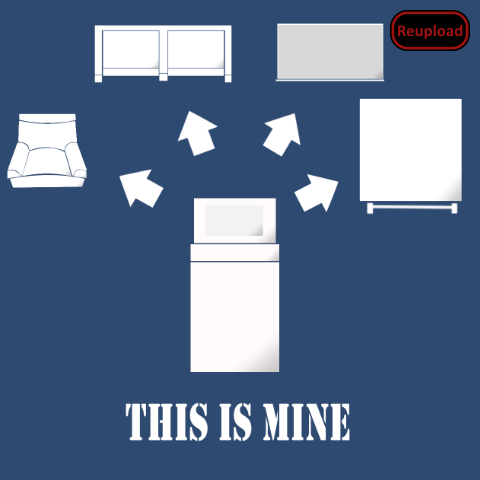
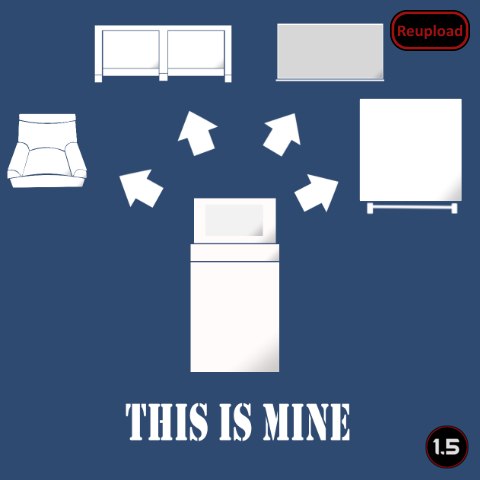
Mod updated for 1.5 and passed autotests

Changed region(s): [[0.875, 0.875, 1.0, 1.0]]

diff --git a/Source/ThisIsMine/HarmonyInit.cs b/Source/ThisIsMine/HarmonyInit.cs
@@ -1,5 +1,4 @@
-using System.Collections.Generic;
-using System.Linq;
+using System.Linq;
 using HarmonyLib;
 using RimWorld;
 using Verse;
@@ -23,7 +22,7 @@ public static class HarmonyInit
 
             if (furniture.comps is null)
             {
-                furniture.comps = new List<CompProperties>();
+                furniture.comps = [];
             }
 
             furniture.comps.Add(new CompProperties_CanBelongToRoomOwners());

diff --git a/Source/ThisIsMine/Patch_SpawnSetup.cs b/Source/ThisIsMine/Patch_SpawnSetup.cs
@@ -8,7 +8,7 @@ namespace ThisIsMine;
 [HarmonyPatch(typeof(Building_Storage), "SpawnSetup")]
 public static class Patch_SpawnSetup
 {
-    public static HashSet<IntVec3> storageCells = new HashSet<IntVec3>();
+    public static readonly HashSet<IntVec3> storageCells = [];
 
     private static void Postfix(Building_Storage __instance)
     {

diff --git a/Source/ThisIsMine/CompCanBelongToRoomOwners.cs b/Source/ThisIsMine/CompCanBelongToRoomOwners.cs
@@ -7,7 +7,7 @@ namespace ThisIsMine;
 
 public class CompCanBelongToRoomOwners : ThingComp
 {
-    public static readonly HashSet<Thing> privateThings = new HashSet<Thing>();
+    public static readonly HashSet<Thing> privateThings = [];
     public IntVec3 belongsToCell = IntVec3.Invalid;
     public bool belongsToRoomOwners;
 

diff --git a/README.md b/README.md
@@ -7,6 +7,9 @@ https://steamcommunity.com/sharedfiles/filedetails/?id=2384987719
 
 - Furniture that gets moved or just minified will now reset their ownership
 - Changed one of the hotkeys as it was requested in the comments
+- Updated icons by Soul
+
+If the icons look distorted, try to uncheck texture compression in the game settings.
 
 ![Image](https://i.imgur.com/pufA0kM.png)
 
@@ -28,12 +31,13 @@ https://discord.com/invite/7befJWr9xS]![Image](https://i.imgur.com/gh6C5m2.png)
 
 -  See if the the error persists if you just have this mod and its requirements active.
 -  If not, try adding your other mods until it happens again.
--  Post your error-log using https://steamcommunity.com/workshop/filedetails/?id=818773962]HugsLib and command Ctrl+F12
+-  Post your error-log using https://steamcommunity.com/workshop/filedetails/?id=818773962]HugsLib or the standalone https://steamcommunity.com/sharedfiles/filedetails/?id=2873415404]Uploader and command Ctrl+F12
 -  For best support, please use the Discord-channel for error-reporting.
 -  Do not report errors by making a discussion-thread, I get no notification of that.
 -  If you have the solution for a problem, please post it to the GitHub repository.
+-  Use https://github.com/RimSort/RimSort/releases/latest]RimSort to sort your mods
 
 
 
+https://steamcommunity.com/sharedfiles/filedetails/changelog/2560584629]![Image](https://img.shields.io/github/v/release/emipa606/ThisIsMine?label=latest%20version&style=plastic&color=9f1111&labelColor=black)
 
-https://steamcommunity.com/sharedfiles/filedetails/changelog/2560584629]Last updated 2023-05-26
